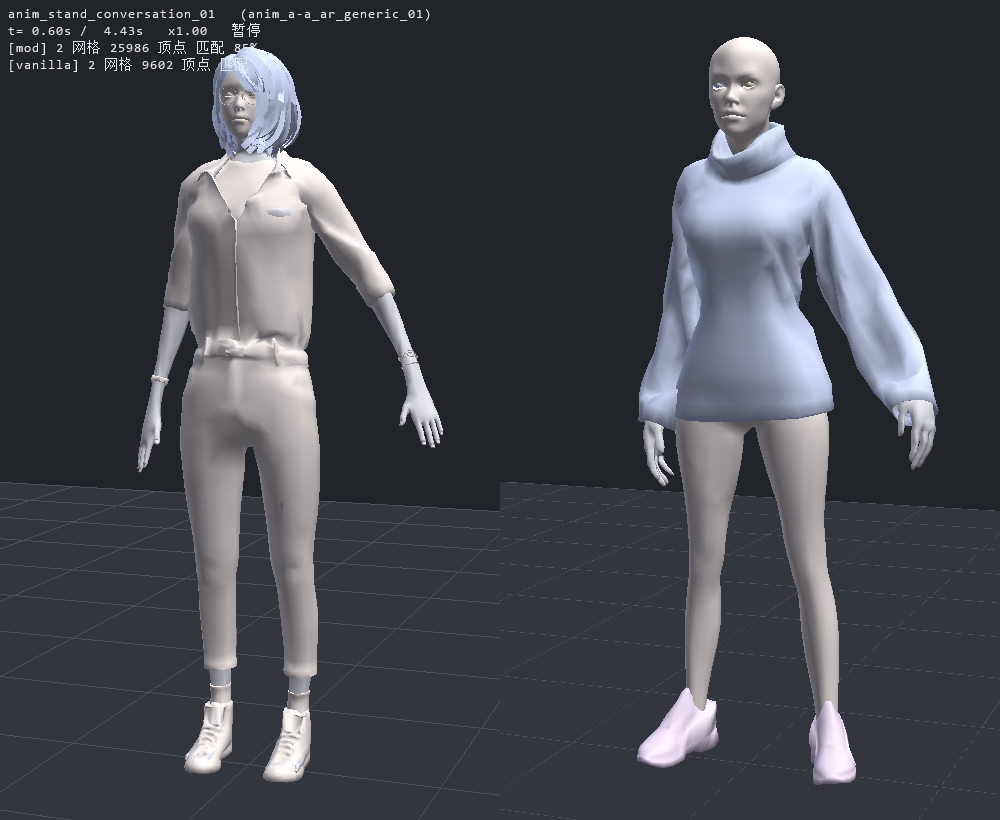
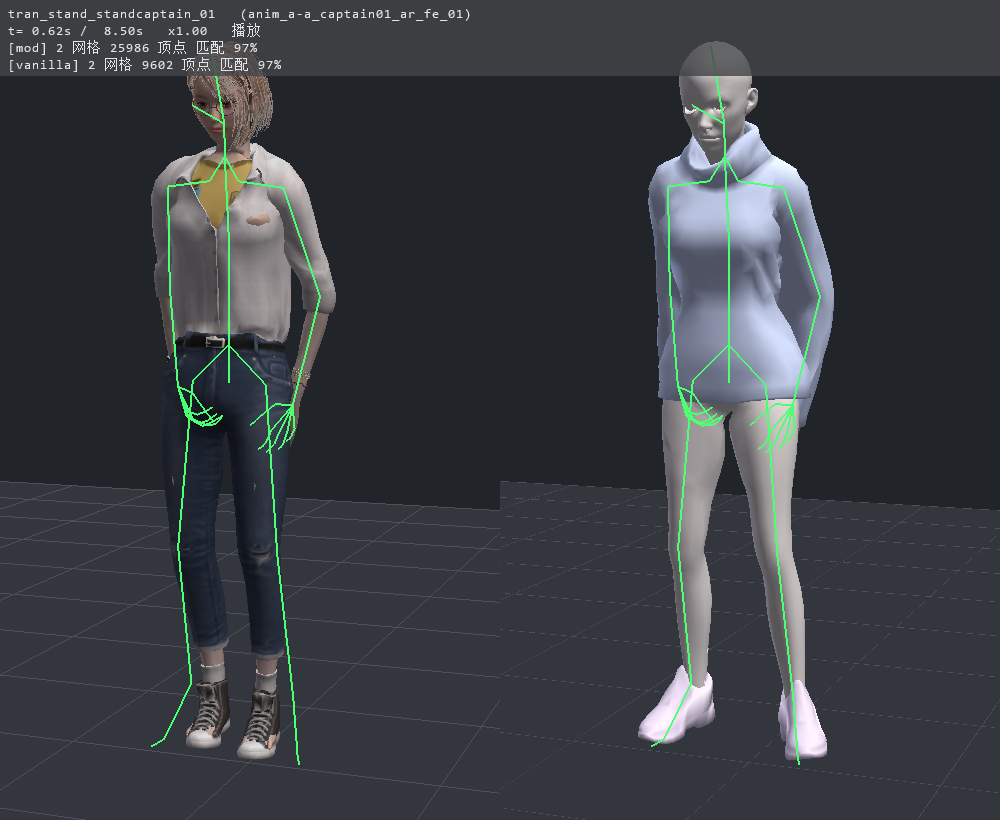
文档：加入材质裁剪修复前后对比图、两个 mod 对比图

diff --git a/README.md b/README.md
@@ -146,8 +146,15 @@ vanilla 侧保持纯色——它只是姿态基准，上贴图没意义还慢一
 
 阈值 0.5 来自 `shadergl/glsl/p1/high/hair.frag.glsl` 里的硬编码
 `if (ColorBaseDiffuse.a < 0.5f) discard;`；而 `p1/high/character.frag.glsl`
-**一个 discard 都没有**。之前对全部材质一律按 0.35 裁剪，把半透明的发丝边缘留了下来，
-头发看起来就是"白棕相间的噪点"——这是整个项目里最费劲的一个 bug。
+**一个 discard 都没有**。
+
+![材质裁剪规则修复前后](docs/hair-fix.png)
+
+左：一律按 0.35 裁剪（半透明发丝边缘被留下，头发成了"白棕相间的噪点"）。
+中：按材质规则走 `p1_hair` 的 0.5。右：软光栅同一帧，两边一致。
+
+**这是整个项目里最费劲的一个 bug**——我一开始靠试阈值（0.02 / 0.1 / 0.2 / 0.35 全试过），
+其实该做的是去读游戏 shader 的源码。教训：**能查证就别猜**。
 
 退出码 `0` = ok、`1` = warn、`2` = fail，可直接接进 CI。
 
